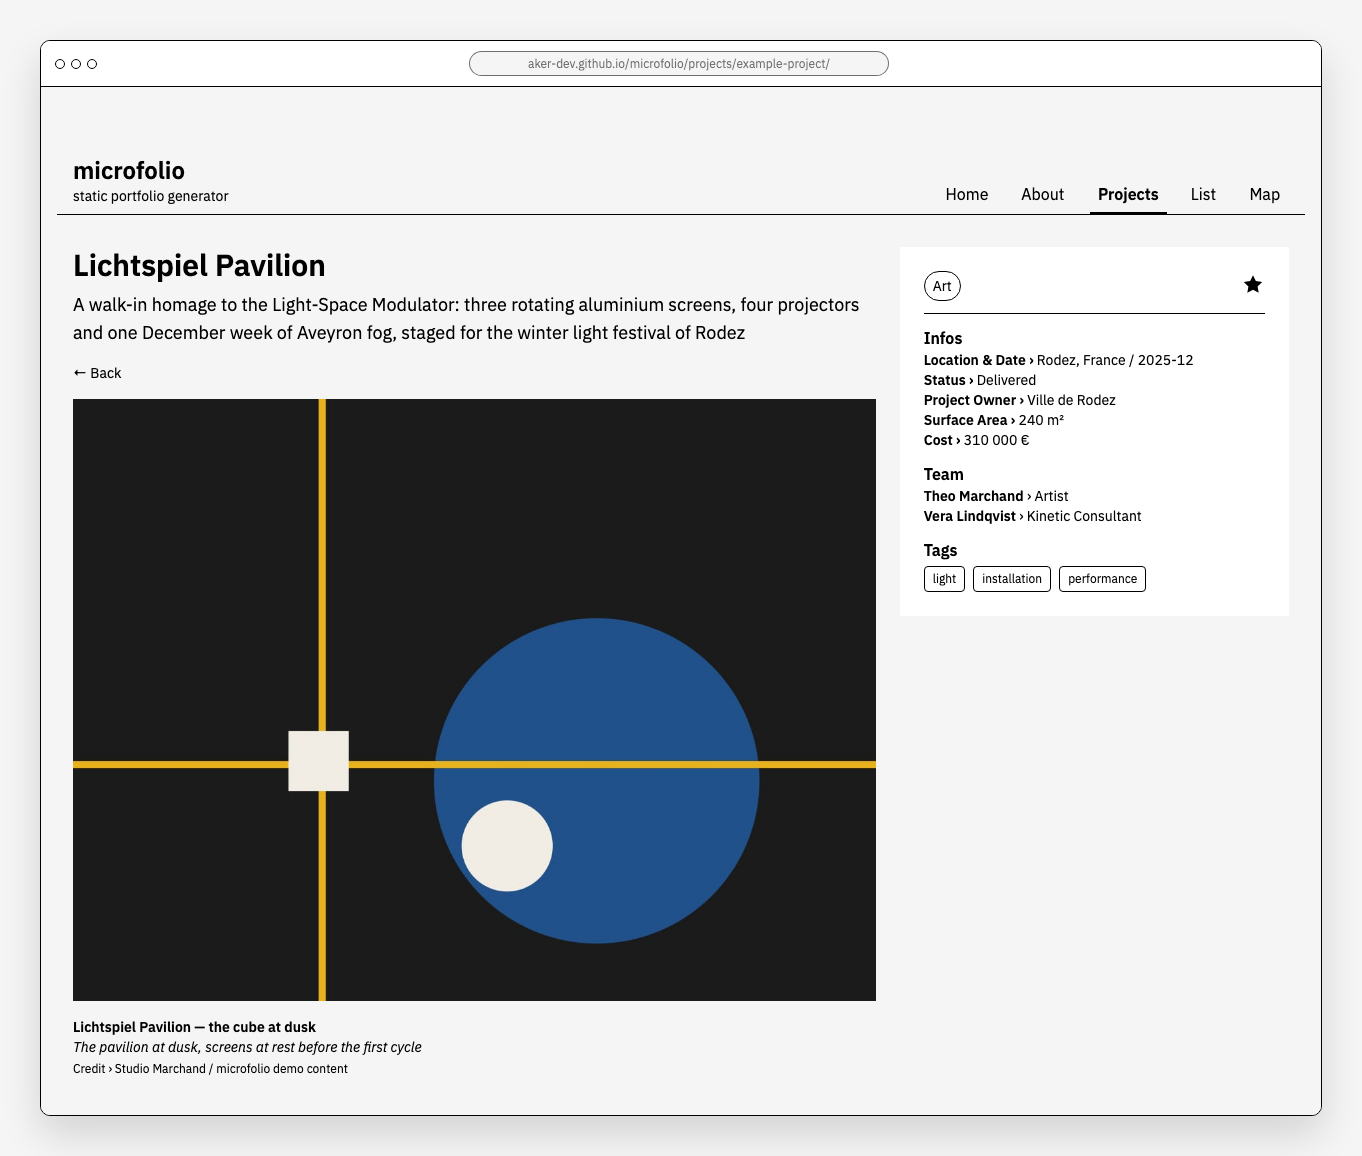
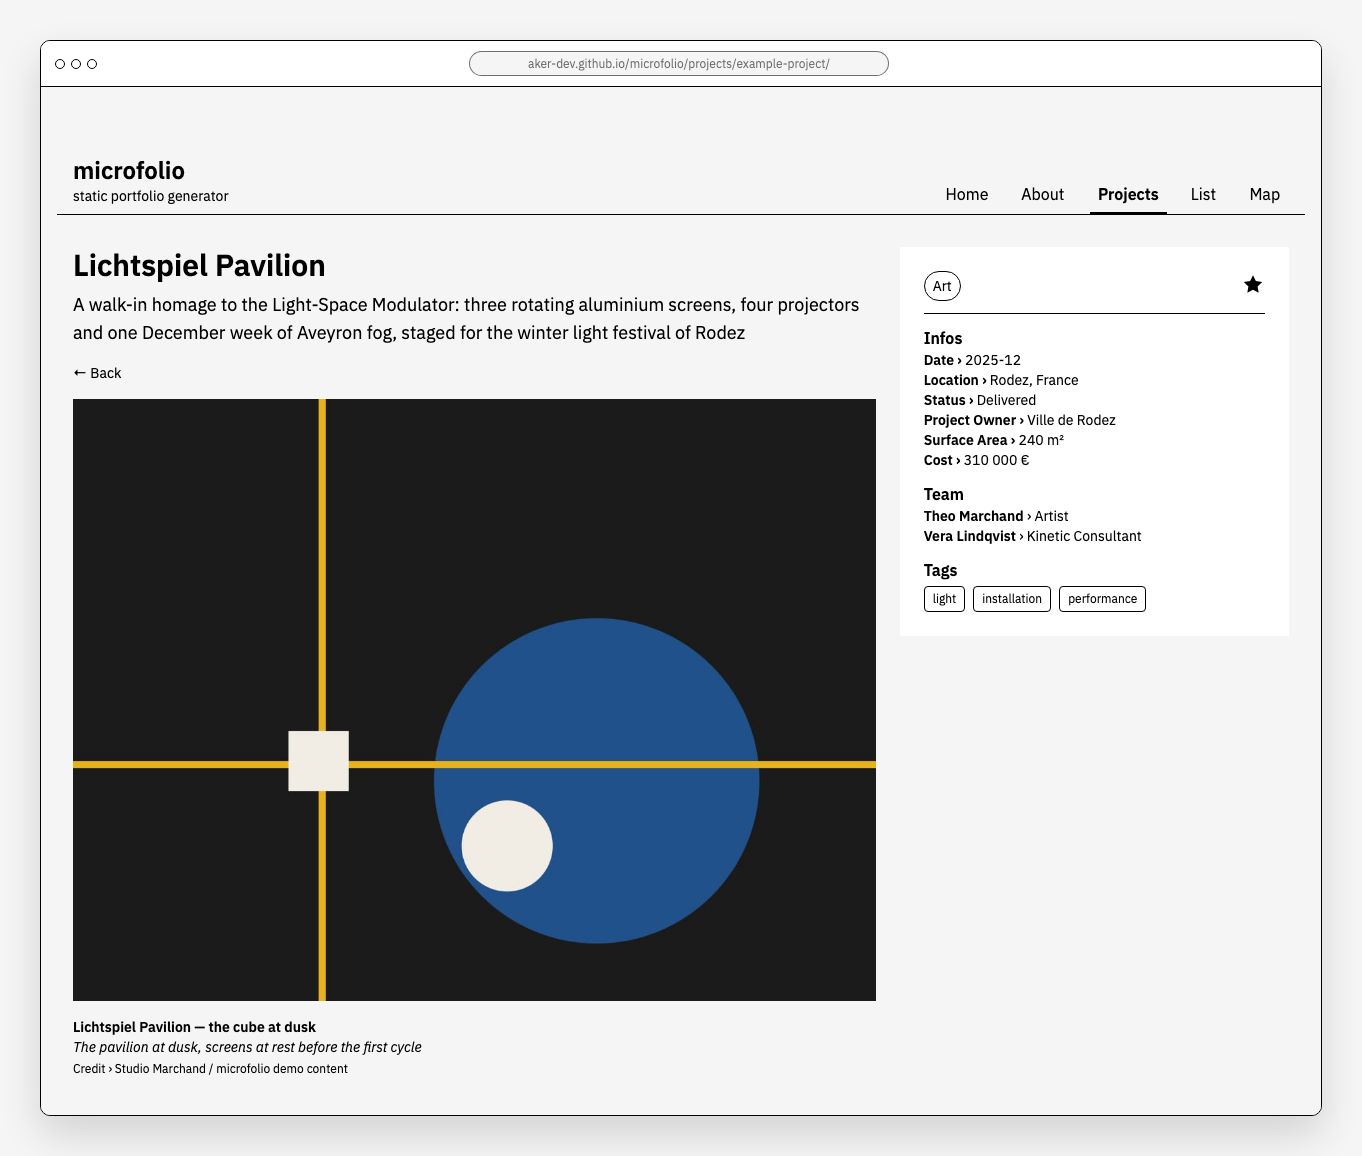
feat(project): date and location on two lines, location truly optional
The info panel shows Date then, only when there is one, Location. A
project without a location shows none anywhere: no line on its page,
an empty cell in the list instead of N/A, no marker on the map without
coordinates. Only title and date were ever required; the interface now
behaves that way. Universal Grotesk Revival — a typeface has no address
— exercises the path in the demo, the generator omits the fields when
absent, and two e2e tests pin the behaviour. Screenshots regenerated.

Changed region(s): [[0.6784, 0.2803, 0.8326, 0.5294]]

diff --git a/scripts/generate-demo-projects.js b/scripts/generate-demo-projects.js
@@ -77,17 +77,16 @@ function yamlQuote(value) {
 }
 
 function frontmatterFor(p) {
-	const lines = [
-		'---',
-		`title: ${yamlQuote(p.title)}`,
-		`date: ${yamlQuote(p.date)}`,
-		`location: ${yamlQuote(p.location)}`,
-		`coordinates: [${p.coordinates[0]}, ${p.coordinates[1]}]`,
+	const lines = ['---', `title: ${yamlQuote(p.title)}`, `date: ${yamlQuote(p.date)}`];
+	// Both optional — a project without a place simply omits them
+	if (p.location) lines.push(`location: ${yamlQuote(p.location)}`);
+	if (p.coordinates) lines.push(`coordinates: [${p.coordinates[0]}, ${p.coordinates[1]}]`);
+	lines.push(
 		`description: ${yamlQuote(p.description)}`,
 		`type: ${yamlQuote(p.type)}`,
 		`tags: [${p.tags.map(yamlQuote).join(', ')}]`,
 		'authors:'
-	];
+	);
 	for (const author of p.authors) {
 		lines.push(`  - name: ${yamlQuote(author.name)}`);
 		lines.push(`    role: ${yamlQuote(author.role)}`);
@@ -134,7 +133,11 @@ async function generateProject(stagingDir, p) {
 	}
 
 	const { accents } = identityFor(p.slug);
-	const pdf = buildProjectPdf(p.title, `${p.location} — ${p.date.slice(0, 4)}`, accents);
+	const pdf = buildProjectPdf(
+		p.title,
+		[p.location, p.date.slice(0, 4)].filter(Boolean).join(' — '),
+		accents
+	);
 	await writeFile(join(dir, 'documents', 'project-dossier.pdf'), pdf);
 }
 

diff --git a/e2e/navigation.spec.js b/e2e/navigation.spec.js
@@ -219,6 +219,29 @@ test.describe('navigating into a filtered view', () => {
 	});
 });
 
+test.describe('a project without a location', () => {
+	// Only title and date are required. A project that names no place shows
+	// none — no placeholder text anywhere.
+	test('its page has a date line and no location line', async ({ page }) => {
+		await page.goto('/projects/universal-grotesk-revival/');
+		const infos = page.locator('aside');
+
+		await expect(infos).toContainText('Date ›');
+		await expect(infos).not.toContainText('Location ›');
+		await expect(infos).not.toContainText('N/A');
+	});
+
+	test('its row in the list has an empty location cell', async ({ page }) => {
+		await page.goto('/list/?search=Universal+Grotesk');
+		await waitForFiltersReady(page);
+
+		const row = page.locator('table tbody tr').first();
+		await expect(row).toContainText('Universal Grotesk Revival');
+		// Third column is the location
+		await expect(row.locator('td').nth(2)).toHaveText('');
+	});
+});
+
 /** See the note on waitForFiltersReady: the layout marks the tree interactive. */
 async function waitForHydration(page) {
 	await expect(page.locator('html')).toHaveAttribute('data-hydrated', 'true');

diff --git a/src/routes/projects/[slug]/+page.svelte b/src/routes/projects/[slug]/+page.svelte
@@ -127,9 +127,18 @@
 		<!-- Location & Date -->
 		<div>
 			<h3 class="text-base font-bold">{$_('ui.project.infos')}</h3>
-			<span class="font-bold">{$_('ui.project.location_date')} ›</span>
-			<span>{project.location} / </span>
-			<span>{formatProjectDate(project.date)}</span>
+			<!-- Date first: it is the one field every project has. A project with
+			     no location simply has no location line — no placeholder. -->
+			<div>
+				<span class="font-bold">{$_('ui.project.date')} ›</span>
+				<span>{formatProjectDate(project.date)}</span>
+			</div>
+			{#if project.location}
+				<div>
+					<span class="font-bold">{$_('ui.project.location')} ›</span>
+					<span>{project.location}</span>
+				</div>
+			{/if}
 
 			<!-- Status -->
 			{#if project.status}

diff --git a/scripts/demo-projects/projects.js b/scripts/demo-projects/projects.js
@@ -320,8 +320,9 @@ Five-metre canvases do not use doors politely. The east gable unlatches and winc
 		slug: 'universal-grotesk-revival',
 		title: 'Universal Grotesk Revival',
 		date: '2025-09-01',
-		location: 'Berlin, Germany',
-		coordinates: [52.52, 13.405],
+		// No location on purpose: a typeface has no address. The one project
+		// exercising the optional-location path — no line on its page, an empty
+		// cell in the list, no marker on the map.
 		description:
 			'A four-year revival of a 1920s single-case experimental alphabet, extended from 26 surviving letterforms to a working family of 14 styles with full European language support',
 		type: 'design',

diff --git a/src/lib/components/AkProjectCard.svelte b/src/lib/components/AkProjectCard.svelte
@@ -53,7 +53,9 @@
 		</p>
 
 		<div class="flex items-center justify-between text-xs">
-			<span>{project.location}</span>
+			<!-- Empty rather than absent when there is no location, so the date
+			     keeps its place on the right -->
+			<span>{project.location ?? ''}</span>
 			<span>{formatProjectDate(project.date)}</span>
 		</div>
 

diff --git a/src/routes/list/+page.svelte b/src/routes/list/+page.svelte
@@ -137,7 +137,7 @@
 								</div>
 							</td>
 							<td class="text-primary px-4 py-3 text-sm">
-								{project.location || $_('ui.not_available')}
+								{project.location ?? ''}
 							</td>
 							<td class="text-primary px-4 py-3 text-sm">
 								{formatProjectDate(project.date)}

diff --git a/CLAUDE.md b/CLAUDE.md
@@ -112,7 +112,7 @@ All custom components use `Ak` prefix (e.g., `AkHeader`, `AkFooter`, `AkProjectC
 **The map is MapLibre GL on OpenFreeMap**, worldwide OpenStreetMap vector tiles with no API key, in Positron for light and Dark for dark — the two neutral styles it publishes, which is why nothing desaturates the map any more. The styles and zoom limits sit at the top of `map/+page.svelte`, not in `config.js`. Things about it that are not guessable:
 
 - **Coordinates swap.** Frontmatter is `[latitude, longitude]`, MapLibre wants `[longitude, latitude]`. `toLngLat()` in `map/+page.svelte` is the only place they meet — keep it that way
-- **Switching theme swaps the whole style**, since light and dark are two published styles rather than one repainted. Markers survive it: they are DOM nodes the map owns, not part of the style. Verified, not assumed — 31 before and after
+- **Switching theme swaps the whole style**, since light and dark are two published styles rather than one repainted. Markers survive it: they are DOM nodes the map owns, not part of the style. Verified, not assumed — 30 before and after (31 projects, one of which names no place)
 - **`fitMaxZoom` exists because fitting one project would otherwise frame its roof.** The map's own `maxZoom` used to do that job back when it was capped at 6
 - **MapLibre's chrome fights back twice.** Its icons are baked dark SVG data URIs with variants only for Windows' forced-colors mode, so they are inverted in dark; and its compact attribution paints itself white through a two-class rule that ties with ours and wins on order, so ours carries a third class. Without it the bar was white with white links on it
 

diff --git a/doc/fr/04-ajout-projets.md b/doc/fr/04-ajout-projets.md
@@ -50,8 +50,8 @@ description: 'Description courte et percutante de votre projet'
 type: 'architecture' # alimente le filtre par type — voir la liste ci-dessous
 
 # ── Optionnel ──
-location: 'Ville, Pays'
-coordinates: [48.8566, 2.3522] # [latitude, longitude], place le projet sur la carte
+location: 'Ville, Pays' # omettez-le et le projet n'affiche simplement aucun lieu
+coordinates: [48.8566, 2.3522] # [latitude, longitude] pour la carte — pas de coordonnées, pas de marqueur
 tags: ['moderne', 'durable', 'espace-public'] # ne répétez pas le type
 authors:
   - name: 'Votre Nom'
@@ -98,8 +98,8 @@ Présentez les résultats obtenus, l'accueil du projet, son impact.
 
 **Champs optionnels :**
 
-- `location` : Localisation du projet
-- `coordinates` : Coordonnées GPS [latitude, longitude]
+- `location` : Localisation du projet — omettez-la et rien ne s'affiche à sa place, ni sur la page projet ni dans la liste
+- `coordinates` : Coordonnées GPS [latitude, longitude] — sans elles, le projet n'a pas de marqueur sur la carte
 
 > La carte affiche OpenStreetMap dans le monde entier, via OpenFreeMap, et suit
 > votre thème clair ou sombre. Le fond de carte et ses limites de zoom se règlent

diff --git a/doc/en/04-adding-projects.md b/doc/en/04-adding-projects.md
@@ -50,8 +50,8 @@ description: 'Short and compelling description of your project'
 type: 'architecture' # drives the type filter — see the list below
 
 # ── Optional ──
-location: 'City, Country'
-coordinates: [48.8566, 2.3522] # [latitude, longitude], puts the project on the map
+location: 'City, Country' # leave it out and the project simply shows no place
+coordinates: [48.8566, 2.3522] # [latitude, longitude] for the map — no coordinates, no marker
 tags: ['modern', 'sustainable', 'public-space'] # don't repeat the type
 authors:
   - name: 'Your Name'
@@ -98,8 +98,8 @@ Present the results obtained, project reception, its impact.
 
 **Optional fields:**
 
-- `location`: Project location
-- `coordinates`: GPS coordinates [latitude, longitude]
+- `location`: Project location — leave it out and nothing is shown for it, on the project page or in the list
+- `coordinates`: GPS coordinates [latitude, longitude] — without them the project has no marker on the map
 
 > The map draws OpenStreetMap the world over, through OpenFreeMap, and follows
 > your light or dark theme. The basemap and its zoom limits are set at the top of

diff --git a/doc/fr/00-premiers-pas.md b/doc/fr/00-premiers-pas.md
@@ -314,7 +314,7 @@ featured: true # true pour mettre en avant
 Ici, décrivez votre projet en détail…
 ```
 
-Seuls `title` et `date` sont obligatoires — un projet auquel il en manque un est ignoré, et nommé dans un résumé en fin de build. La référence complète des champs, y compris le panneau d'infos optionnel (`owner`, `status`, `surface_area`, `cost`), se trouve dans le [Guide d'ajout de projets](04-ajout-projets.md#3-métadonnées-importantes).
+Seuls `title` et `date` sont obligatoires — un projet auquel il en manque un est ignoré, et nommé dans un résumé en fin de build. Un projet sans `location` n'affiche simplement aucun lieu (pas de texte de remplacement sur sa page ni dans la liste), et sans `coordinates` il n'a pas de marqueur sur la carte. La référence complète des champs, y compris le panneau d'infos optionnel (`owner`, `status`, `surface_area`, `cost`), se trouve dans le [Guide d'ajout de projets](04-ajout-projets.md#3-métadonnées-importantes).
 
 ### Étape 4 : Ajouter vos fichiers
 

diff --git a/doc/en/00-getting-started.md b/doc/en/00-getting-started.md
@@ -314,7 +314,7 @@ featured: true # true to highlight
 Here, describe your project in detail...
 ```
 
-Only `title` and `date` are required — a project missing either is skipped, and named in a summary at the end of the build. The full field reference, including the optional info panel (`owner`, `status`, `surface_area`, `cost`), is in the [Project Addition Guide](04-adding-projects.md#3-important-metadata).
+Only `title` and `date` are required — a project missing either is skipped, and named in a summary at the end of the build. A project without a `location` simply shows none (no placeholder on its page or in the list), and without `coordinates` it has no marker on the map. The full field reference, including the optional info panel (`owner`, `status`, `surface_area`, `cost`), is in the [Project Addition Guide](04-adding-projects.md#3-important-metadata).
 
 ### Step 4: Add your files
 

diff --git a/CHANGELOG.md b/CHANGELOG.md
@@ -7,6 +7,10 @@ and this project adheres to [Semantic Versioning](https://semver.org/spec/v2.0.0
 
 ## [Unreleased]
 
+### Changed
+
+- **Date and location on two lines** in the project page's info panel, date first — and **a project without a location shows none**: no line on its page, an empty cell in the list instead of the old "N/A", no marker on the map without coordinates. Only `title` and `date` were ever required; the interface now behaves that way. The demo's Universal Grotesk Revival — a typeface has no address — exercises the path
+
 ## [0.13.1] - 2026-08-21
 
 ### Added
